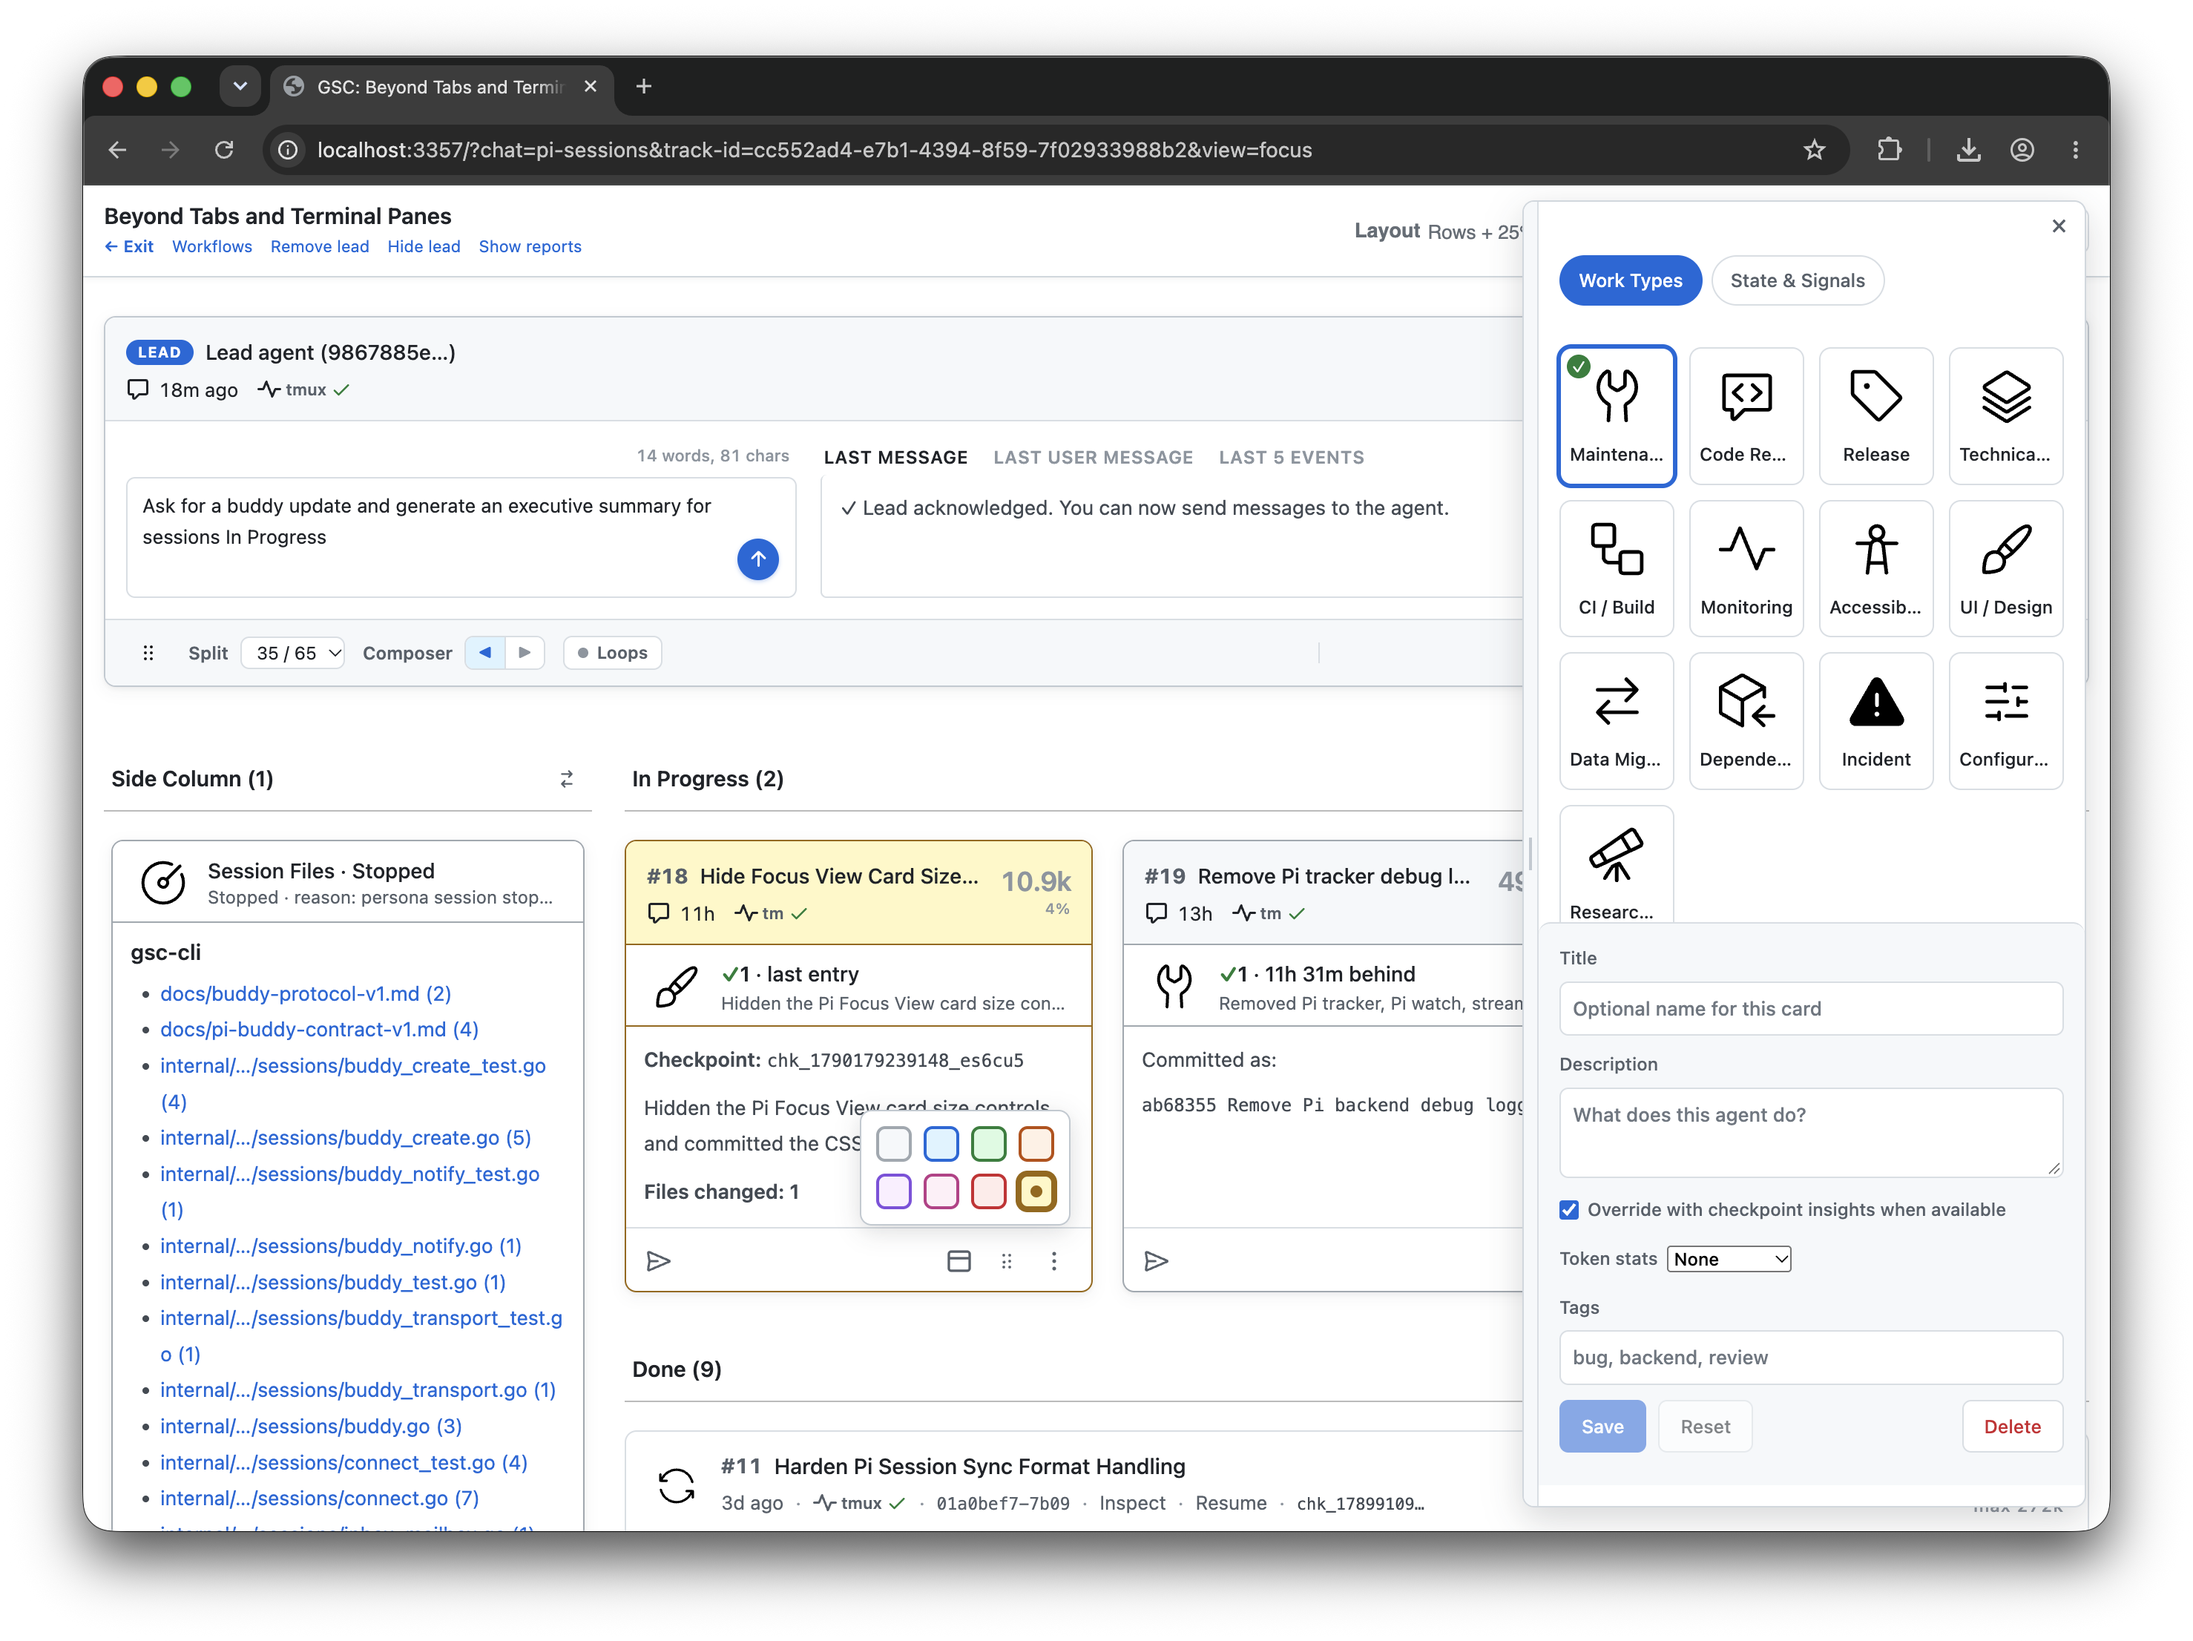
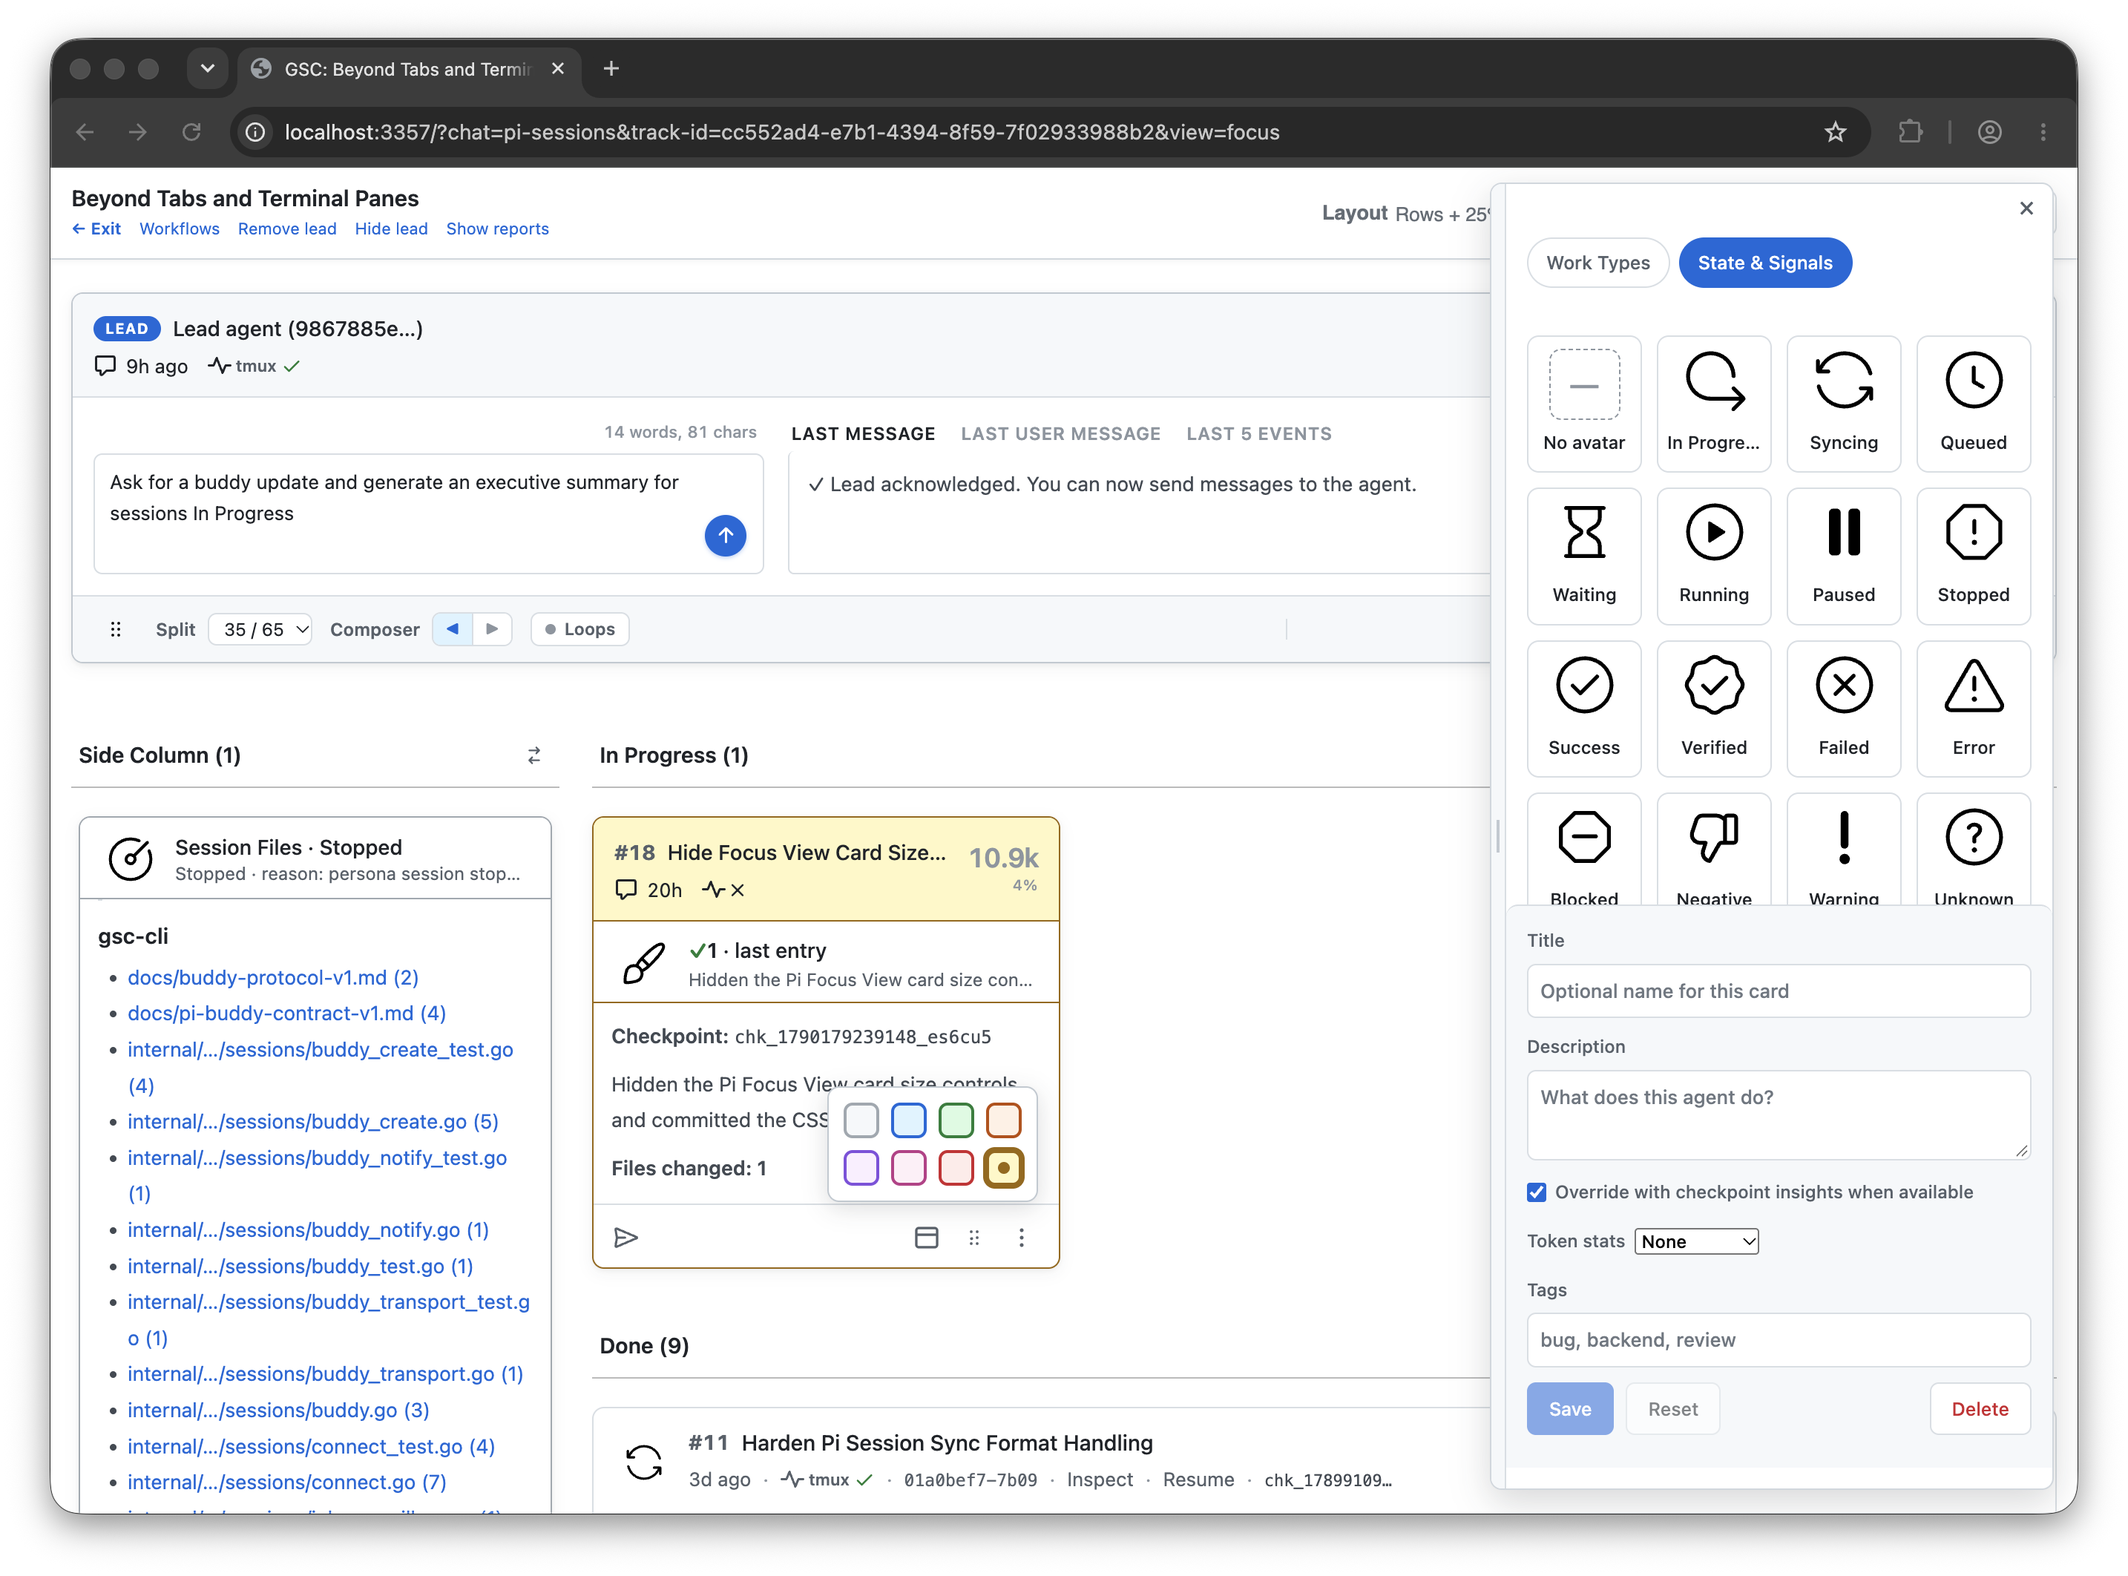
Update README

Changed region(s): [[0.0, 0.0, 0.993, 0.9944]]

diff --git a/README.md b/README.md
@@ -20,7 +20,7 @@ GitSense uses your agents’ session logs in the background. No wrapper or proxy
   <a href="#share-knowledge">Share knowledge</a>
 </p>
 
-<img src="assets/beyond-tabs-and-terminal-panes-callouts.png" alt="GitSense Chat Group for bringing together sessions, a lead, dashboards, and Buddies" width="100%">
+<img src="assets/beyond-tabs-and-terminal-panes.png" alt="GitSense Chat for organizing agent sessions and coordinating work" width="100%">
 
 <table>
   <tbody>
